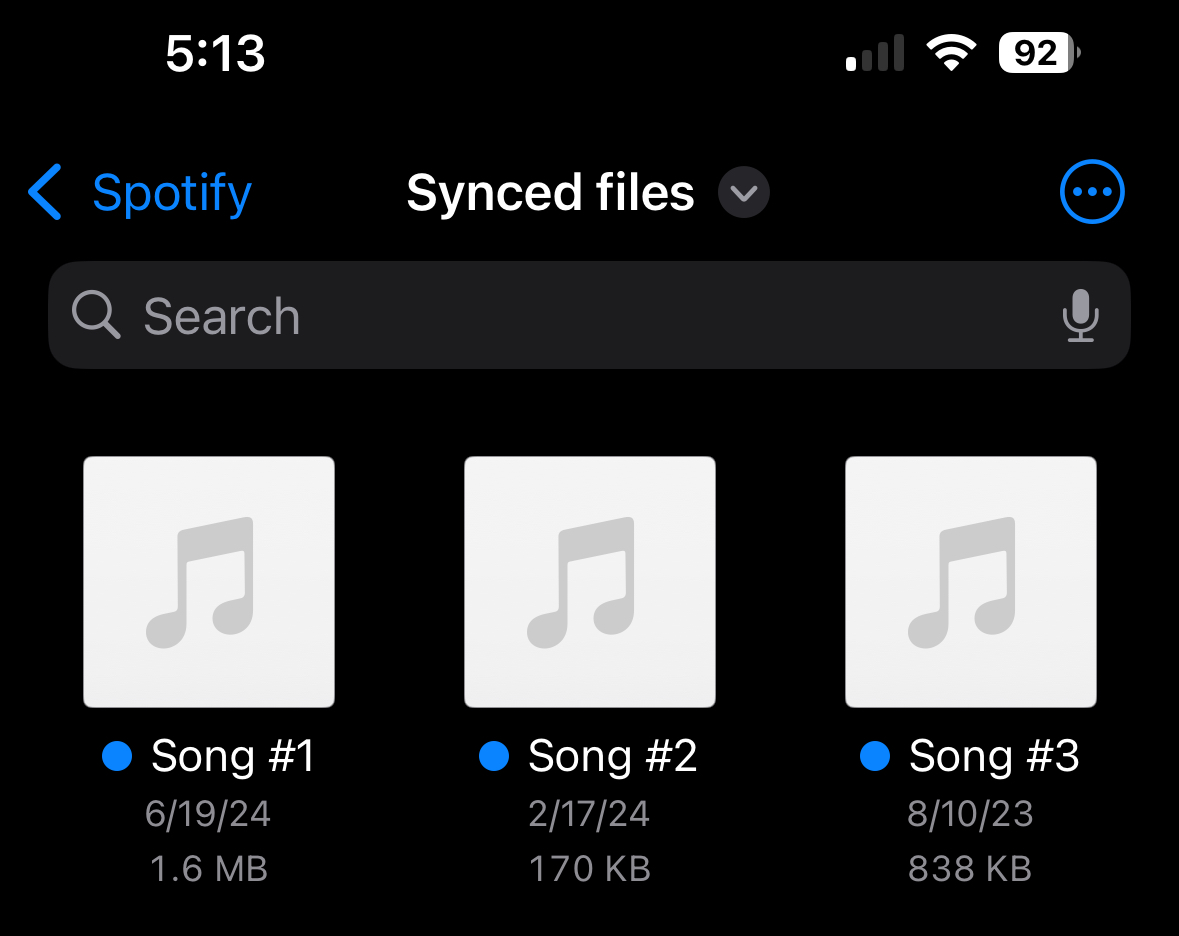
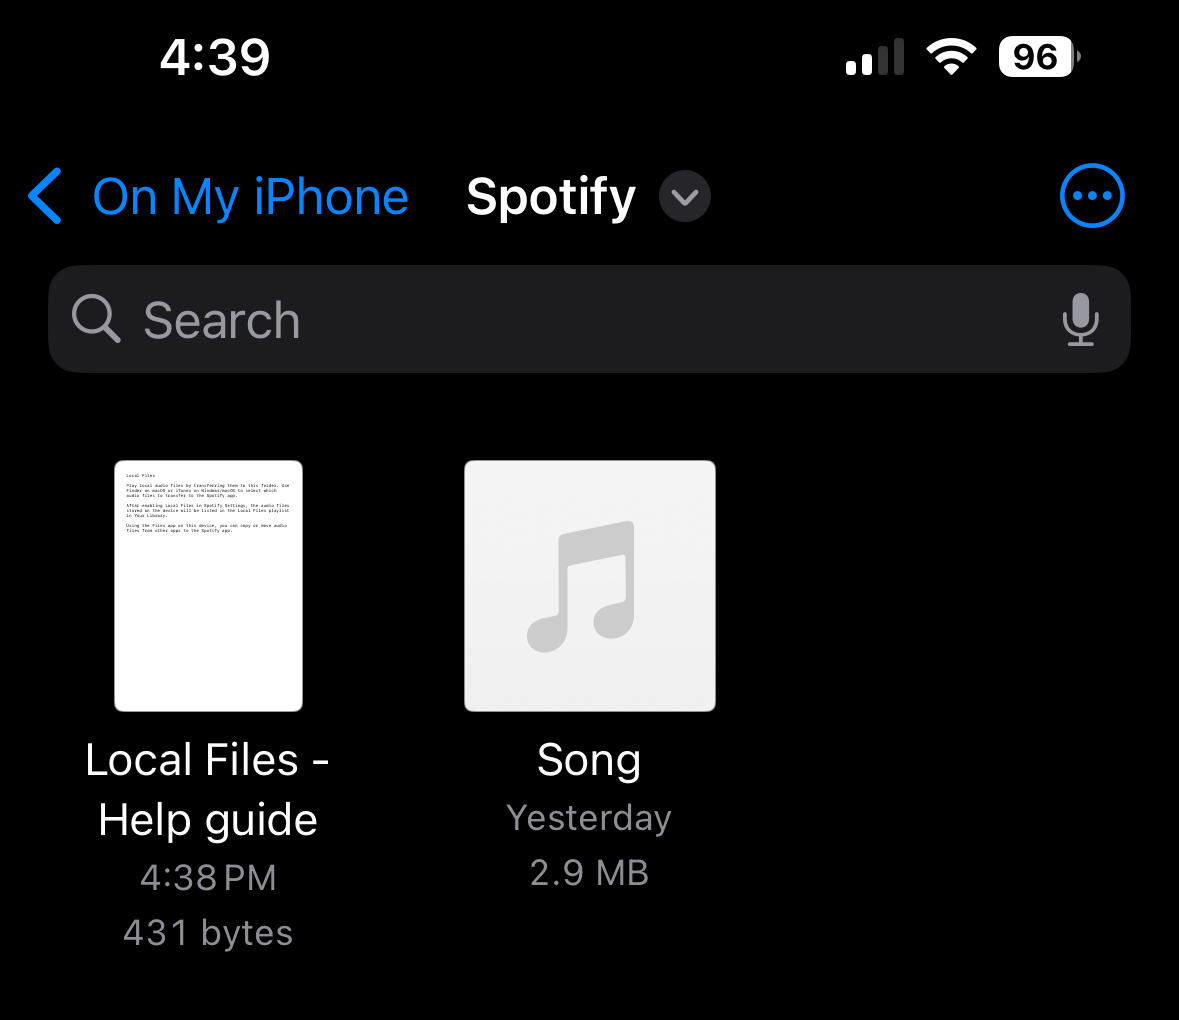
Created instructions popup for how to save on export

diff --git a/components/modals/SaveInstructionsModal.tsx b/components/modals/SaveInstructionsModal.tsx
@@ -1,0 +1,138 @@
+import { Text, View, Modal, Image, ScrollView } from 'react-native'
+import CheckBox from 'expo-checkbox'
+import { LinearGradient } from 'expo-linear-gradient';
+import AsyncStorage from '@react-native-async-storage/async-storage'
+import { useState } from 'react'
+import CustomButton from '@/components/CustomButton'
+import { Colors } from '@/constants/Colors'
+import { Styles } from '@/constants/Styles'
+import { useGlobalContext } from '@/context/GlobalProvider';
+
+type InstructionsModalProps = {
+  dontShowOption?: boolean;
+}
+
+const SaveInstructionsModal = ({dontShowOption}: InstructionsModalProps) => {
+  const {showSaveInst, setShowSaveInst} = useGlobalContext();
+  const [checked, setChecked] = useState(false);
+  return (
+    <View
+      style={{
+        justifyContent: 'center',
+        alignItems: 'center'
+      }}
+    >
+      <Modal
+        transparent={true}
+        visible={showSaveInst}
+        animationType='slide'
+      >
+        <View style={Styles.popupBackdrop}>
+          <View
+            style={[Styles.popupBody, Styles.roundedContainer, {
+              // paddingLeft: 5,
+              // paddingRight: 5,
+              paddingTop: 20,
+              paddingBottom: 20,
+              width: '90%',
+            }]}
+          >
+            <Text
+              style={{
+                color: 'white',
+                fontSize: 32,
+                fontWeight: 'bold'
+              }}
+            >
+              How to Export
+            </Text>
+            <View
+              style={{
+                padding: 15
+              }}
+            >
+              <View style={{
+                height: 400,
+              }}>
+                <ScrollView style={{paddingRight: 20}}>
+                  <View style={{paddingBottom: 5}}>
+                    <Text
+                      style={[Styles.infoText, {fontWeight: 'bold', paddingBottom: 5}]}
+                    >
+                      1. Hit the blue "Export" button
+                    </Text>
+                    <Image 
+                      source={require('@/assets/images/save-instructions-3.jpg')}
+                      style={{width: '100%', height: 200}}
+                      resizeMode='contain'
+                    />
+                    <Text
+                      style={[Styles.infoText, {fontWeight: 'bold', paddingBottom: 20}]}
+                    >
+                      2. Hit "Save to Files" in the popup
+                    </Text>
+                    <Image 
+                      source={require('@/assets/images/save-instructions.jpg')}
+                      style={{width: '100%', height: 200, marginBottom: 20}}
+                      resizeMode='contain'
+                    />
+                  </View>
+                  <View>
+                    <Text
+                      style={[Styles.infoText, {fontWeight: 'bold', paddingBottom: 5}]}
+                    >
+                      3. Find Spotify folder and hit Save:
+                    </Text>
+                    <Text
+                      style={[Styles.infoText, {paddingBottom: 20, paddingTop: 5}]}
+                    >
+                      On My iPhone → Spotify
+                    </Text>
+                    <Image 
+                      source={require('@/assets/images/save-instructions-2.jpg')}
+                      style={{
+                        width: '100%', 
+                        height: 250,
+                        marginBottom: 40
+                      }}
+                      resizeMode='contain'
+                    />
+                  </View>
+                </ScrollView>
+                <LinearGradient
+                  style={{position:'absolute', bottom:0, width:'100%', height:50}}
+                  colors={['rgba(24, 24, 24, 0)', 'rgba(24, 24, 24, 1)']}
+                  pointerEvents={'none'}
+                />
+              </View>
+            </View>
+            {dontShowOption ? <View
+              style={{
+                flexDirection: 'row',
+                justifyContent: 'center',
+                alignItems: 'center',
+                gap: 5,
+                padding: 10
+              }}
+            >
+              <CheckBox value={checked} onValueChange={setChecked}/>
+              <Text style={Styles.infoText}>Don't show again</Text>
+            </View> : <></>}
+            <CustomButton 
+              title="Close"
+              background={Colors.main}
+              handlePress={async () => {
+                setShowSaveInst(false);
+                if (checked) {
+                  await AsyncStorage.setItem('showSaveInst', 'false')
+                }
+              }}
+            />
+          </View>
+        </View>
+      </Modal>
+    </View>
+  )
+}
+
+export default SaveInstructionsModal;

diff --git a/components/import/files/Files.tsx b/components/import/files/Files.tsx
@@ -1,8 +1,9 @@
 import { Text, View, Image, ActivityIndicator } from 'react-native'
-import { useEffect, useReducer } from 'react'
+import { useEffect, useReducer, useState } from 'react'
 import { SafeAreaView } from 'react-native-safe-area-context'
 import { useBottomTabBarHeight } from '@react-navigation/bottom-tabs';
 import { router } from 'expo-router'
+import AsyncStorage from '@react-native-async-storage/async-storage'
 
 import { useGlobalContext } from '@/context/GlobalProvider'
 import { Styles } from '@/constants/Styles'
@@ -12,13 +13,18 @@ import Top from '@/components/Top'
 import FilesEmpty from '@/components/import/files/FilesEmpty'
 import SongList from '@/components/song/SongList'
 import CustomButton from '@/components/CustomButton'
+import SaveInstructionsModal from '@/components/modals/SaveInstructionsModal';
 import { exportSongs } from '@/lib/SongManager'
+
+const getShowSaveInst = async() => {
+  return await AsyncStorage.getItem('showSaveInst')
+}
 
 const Files = () => {
 
   const { homeState, setHomeState, fileResults, setFileResults,
     importDisabled, setImportDisabled, loading, setLoading,
-    zipping, setZipping, importing, setImporting
+    zipping, setZipping, importing, setImporting, 
   } = useGlobalContext();
 
   const getBody = () => {
@@ -31,7 +37,7 @@ const Files = () => {
           </Text>
       }
       else if (importing) {
-        message=
+        message =
           <Text style={Styles.infoText}>
             Importing your files...
           </Text>
@@ -63,6 +69,7 @@ const Files = () => {
 
   return (
     <SafeAreaView style={Styles.body}>
+      <SaveInstructionsModal dontShowOption={true} />
       <Top />
       <PageTitle title='Import Music' />
       {getBody()}
@@ -90,7 +97,7 @@ const Files = () => {
           }}
         />
         <CustomButton 
-          title='Import'
+          title='Export'
           background={Colors.main}
           handlePress={() => {
             setImportDisabled(true);

diff --git a/components/import/files/FilesEmpty.tsx b/components/import/files/FilesEmpty.tsx
@@ -1,4 +1,5 @@
 import { Text, View, Image } from 'react-native'
+import AsyncStorage from '@react-native-async-storage/async-storage'
 
 import { useGlobalContext } from '@/context/GlobalProvider'
 import { Styles } from '@/constants/Styles'
@@ -7,9 +8,15 @@ import { Colors } from '@/constants/Colors'
 import CustomButton from '@/components/CustomButton'
 import { importFiles } from '@/lib/SongManager'
 
+const getShowSaveInst = async() => {
+  return await AsyncStorage.getItem('showSaveInst')
+}
+
 const FilesEmpty = () => {
 
-  const { setFileResults, setImportDisabled, setLoading, setImporting
+  const { 
+    setFileResults, setImportDisabled, setLoading, setImporting,
+    setShowSaveInst, 
   } = useGlobalContext();
 
   return (
@@ -46,6 +53,12 @@ const FilesEmpty = () => {
             setImporting(false);
             setLoading(false)
             if (results.length > 0) {
+              getShowSaveInst().then((value) => {
+                value === 'false' ? setShowSaveInst(false) : setShowSaveInst(true)
+              })
+              .catch((error) => {
+                setShowSaveInst(false)
+              })
               setImportDisabled(false)
               setFileResults(results)
             }

diff --git a/context/GlobalProvider.js b/context/GlobalProvider.js
@@ -11,6 +11,7 @@ const GlobalProvider = ({ children }) => {
   const [deleteSong, setDeleteSong] = useState({});
   const [showEdit, setShowEdit] = useState(false);
   const [showWelcome, setShowWelcome] = useState(false);
+  const [showSaveInst, setShowSaveInst] = useState(false);
   const [editSong, setEditSong] = useState({});
   const [editFilename, setEditFilename] = useState('');
   const [editURI, setEditURI] = useState('');
@@ -41,6 +42,8 @@ const GlobalProvider = ({ children }) => {
         editSong,
         showWelcome,
         setShowWelcome,
+        showSaveInst, 
+        setShowSaveInst,
         
         // edit song 
         editLoad, setEditLoad,

diff --git a/components/modals/InstructionsModal.tsx b/components/modals/InstructionsModal.tsx
@@ -94,7 +94,7 @@ const InstructionsModal = ({dontShowOption}: InstructionsModalProps) => {
                     <Text
                       style={[Styles.infoText, {paddingBottom: 10, paddingTop: 5}]}
                     >
-                      On My iPhone → Spotify → Synced Files
+                      On My iPhone → Spotify
                     </Text>
                     <Image 
                       source={require('@/assets/images/destination-folder.jpg')}
